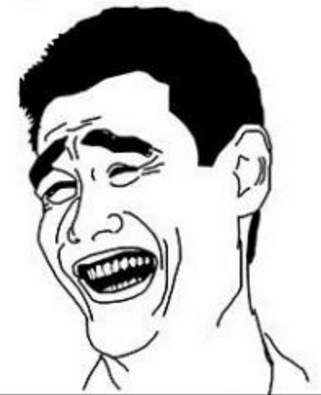
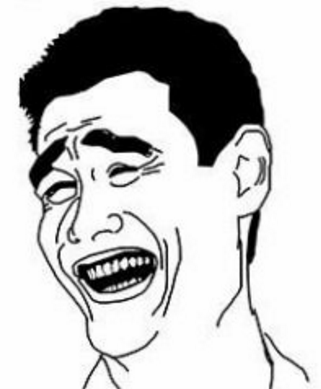
img change

diff --git a/_layouts/default.html b/_layouts/default.html
@@ -14,8 +14,8 @@
 
   <body>
     <div style="text-align: center; height: 500px; width: 500px; margin: 0 auto;">
-        <img scr="pic.PNG" width="321" height="395">
-        <div style="font-weight: bold; margin-top: 5px; font-size: 18px;">
+        <img src="../pic.PNG" width="321" height="389" />
+        <div style="font-weight: bold; margin-top: 20px; font-size: 28px; color: #d85883">
             Happy 1 April!
         </div>
     </div>
